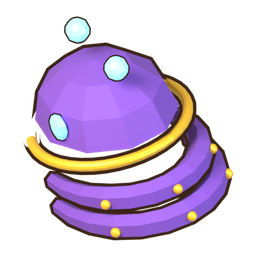
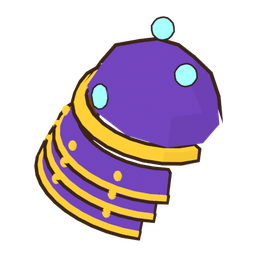
feat(gear): 무기 아이콘 전용 그림(굵게 · 45° · 단계 장식) · 견갑 아이콘 다시 — 칸을 채우고 견갑으로 읽히게
리소스 피드백 ④:
- 무기: 칸 · 가방 · 대장간 · 세트 줄 아이콘이 손에 드는 세로 그림(weapon-N 등)을 그대로 써서 칸의 15%만 채웠다.
  손에 드는 그림은 손잡이 점(WEAPON_GRIP)에 묶여 있어 그대로 두고, 아이콘 전용 titans/gear/icon/<kind>-<t>.png 를 새로 —
  굵기 1.6배 · 45° 대각선(손잡이 왼쪽 아래 → 끝 오른쪽 위) · 2단계 리본 · 3단계 금 날개(단계가 색만 바뀌던 것).
  weapons.weaponBadgePath — 아이콘 자리 7곳(장비창 칸 · 가방 · 성장 카드 · 세트 줄 · 대장간 탭 · 진열 · 목록)만 바꿈
- 견갑: 판을 관(tube) 고리로 만들고 위에서 내려다봐 '초록 마카롱 · 감긴 고리'로 읽혔다 →
  굽은 판(band) 셋을 겹쳐 내리고 판 끝 테 · 징 · 가죽 끈, 어깨에 얹힌 듯 25° 기울여 옆에서. 견갑 넷 + 세트 견갑 넷(같은 파일명)
- gear_icons.py -- icons | shoulders, assemble-gear 는 icon-* 를 icon/ 폴더로

검사: tsc · equip-window · gear-sets · tier-visuals · no-missing-art · upgrade-reflect · weapon-grip · weapons-play · upgrade-glow
(verify-gear-parts 의 대장간 '장비' 탭 2건은 이 변경 전 HEAD 에서도 같은 실패)

diff --git a/src/TitansGame.tsx b/src/TitansGame.tsx
@@ -95,7 +95,7 @@ import { canHoldRunes, engraveRune, gearRuneEffects, nextRuneSocketAt, rollRuneO
 import { partEquipTier, setEquipTier, shoulderEquipTier, weaponEquipTier } from "./equipment/equipTier";
 import { gearSetEnhanceCost, GEAR_ITEM_PRICE, GEAR_SET_KINDS, GEAR_SET_NAME, GEAR_SET_PRICE, GEAR_SET_SLOTS, gearFullSetText, gearItemEffectText, gearItemIconPath, gearItemId, gearItemKind, gearItemName, gearItemSlot, gearSetEffects, gearSetSummary, isGearItemId, type GearItemId, gearItemSetLabel, isLimitedGear } from "./equipment/gearSets";
 import { QuestPanel } from "./titans/QuestPanel";
-import { WEAPON_EFFECTS, WEAPON_FORGE_NAME, WEAPON_KINDS, WEAPON_LABEL, WEAPON_TECH, weaponForgeBonus, weaponHuntLevel, weaponIconPath, weaponStatText, type WeaponKind } from "./titans/weapons";
+import { WEAPON_EFFECTS, WEAPON_FORGE_NAME, WEAPON_KINDS, WEAPON_LABEL, WEAPON_TECH, weaponBadgePath, weaponForgeBonus, weaponHuntLevel, weaponStatText, type WeaponKind } from "./titans/weapons";
 import { SUMMON_LEVEL_PULLS, summonLevel, summonLevelProgress, TIERS, TIER_LABEL, TIER_RANK } from "./titans/summonLevel";
 import type { Tier as AllyRarity } from "./titans/allyRoster";
 import { RelicTabPanel } from "./titans/RelicTabPanel";
@@ -4828,7 +4828,7 @@ export function TitansGame({ insets, userHash, forgedWeaponLevel: drumLevel = 0,
           const lvOf = (k: WeaponKind) => weaponHuntLevel(k, drumLevel, character.expeditionWeaponForge ?? {});
           const wantedLv = lvOf(wantedWeaponKind);
           const slots: EquipSlotView[] = [
-            { id: "weapon", label: "무기", icon: assetUrl(weaponIconPath(wantedWeaponKind, wantedLv)), level: `+${wantedLv}`, tier: weaponEquipTier(wantedLv) },
+            { id: "weapon", label: "무기", icon: assetUrl(weaponBadgePath(wantedWeaponKind, wantedLv)), level: `+${wantedLv}`, tier: weaponEquipTier(wantedLv) },
             (() => {
               const set = character.equippedGear.shoulder;
               return set
@@ -4847,7 +4847,7 @@ export function TitansGame({ insets, userHash, forgedWeaponLevel: drumLevel = 0,
             })(),
           ];
           const bag: EquipBagItem[] = [
-            ...WEAPON_KINDS.map((k): EquipBagItem => ({ key: k, slot: "weapon", label: WEAPON_LABEL[k], level: `+${lvOf(k)}`, icon: assetUrl(weaponIconPath(k, lvOf(k))), on: wantedWeaponKind === k, pending: wantedWeaponKind === k && weaponKind !== k, title: `${weaponStatText(k)} · ${WEAPON_TECH[k].desc}`, className: "weapon-kind-chip", tier: weaponEquipTier(lvOf(k)) })),
+            ...WEAPON_KINDS.map((k): EquipBagItem => ({ key: k, slot: "weapon", label: WEAPON_LABEL[k], level: `+${lvOf(k)}`, icon: assetUrl(weaponBadgePath(k, lvOf(k))), on: wantedWeaponKind === k, pending: wantedWeaponKind === k && weaponKind !== k, title: `${weaponStatText(k)} · ${WEAPON_TECH[k].desc}`, className: "weapon-kind-chip", tier: weaponEquipTier(lvOf(k)) })),
             ...(character.ownedShoulders ?? []).map((id): EquipBagItem => ({ key: id, slot: "shoulder", label: SHOULDER_DEFINITIONS[id].name.replace(" 견갑", ""), icon: shoulderIconUrl(id), on: equippedShoulder === id && !character.equippedGear.shoulder, title: `${SHOULDER_DEFINITIONS[id].name} · ${SHOULDER_DEFINITIONS[id].effect}`, tier: shoulderEquipTier(SHOULDER_DEFINITIONS[id].grade) })),
             ...MOUNT_IDS.filter((mid) => (character.mounts[mid] ?? 0) > 0).map((mid): EquipBagItem => ({ key: `mount:${mid}`, slot: "mount", label: MOUNT_DEFS[mid].name.split(" ").pop() ?? MOUNT_DEFS[mid].name, level: `Lv.${character.mounts[mid]}`, icon: assetUrl(`titans/mounts/${mid}.webp`), on: character.activeMount === mid, title: `${MOUNT_DEFS[mid].name} · 사냥 골드 +${(mountGoldBonus(mid, character.mounts[mid] ?? 1) * 100).toFixed(1)}% · ${character.activeMount === mid ? "누르면 내림" : "끌어 놓거나 누르면 탄다"}`, tier: cosmeticTier(MOUNT_DEFS[mid].gemPrice) })),
             ...character.ownedGear.map((id): EquipBagItem => ({ key: id, slot: gearItemSlot(id), label: gearItemSetLabel(id), icon: assetUrl(gearItemIconPath(id)), on: character.equippedGear[gearItemSlot(id)] === id, title: `${gearItemName(id)} · ${gearItemEffectText(id, character.gearSetLevels[id] ?? 0)}`, tier: setEquipTier(character.gearSetLevels[id] ?? 0) })),
@@ -4984,7 +4984,7 @@ export function TitansGame({ insets, userHash, forgedWeaponLevel: drumLevel = 0,
         {tab === "sword" && (
           <>
             <article key={autoTrainHit?.slot === "weapon" ? `w${autoTrainHit.seq}` : "w"} data-tier={weaponEquipTier(forgedWeaponLevel)} className={`titans-card equipment-training-card ${equipFocus === "weapon" ? "" : "is-other-slot"} ${autoTrainHit?.slot === "weapon" ? "auto-hit" : ""}`}>
-              <div className="training-item-icon weapon"><img src={assetUrl(weaponIconPath(weaponKind, forgedWeaponLevel))} alt="" aria-hidden="true" /></div>
+              <div className="training-item-icon weapon"><img src={assetUrl(weaponBadgePath(weaponKind, forgedWeaponLevel))} alt="" aria-hidden="true" /></div>
               <div>
                 <strong>무기 숙련 · Lv.{save.equipmentTraining.weaponMastery}</strong><p>탭 피해 {formatGold(tapDamage(save.equipmentTraining.weaponMastery + forgeBonus))} → {formatGold(tapDamage(save.equipmentTraining.weaponMastery + 1 + forgeBonus))}</p>
               </div>
@@ -5719,7 +5719,7 @@ export function TitansGame({ insets, userHash, forgedWeaponLevel: drumLevel = 0,
               const setPrice = missing.length === ids.length ? GEAR_SET_PRICE : missing.length * GEAR_ITEM_PRICE;
               return [
                 <article key={kind} className="titans-card gear-set-card gear-list-row" data-gear-set={kind}>
-                  <img src={assetUrl(weaponIconPath(kind, 8))} alt="" aria-hidden="true" />
+                  <img src={assetUrl(weaponBadgePath(kind, 8))} alt="" aria-hidden="true" />
                   <div><strong>{GEAR_SET_NAME[kind]} 세트 <em>{WEAPON_LABEL[kind]} 전용</em></strong><p>{gearFullSetText(kind)}</p></div>
                   {missing.length > 0 ? (
                     <button type="button" className="gear-set-buy" disabled={redGems < setPrice} onClick={() => void buyGear(ids, setPrice, `${GEAR_SET_NAME[kind]} 세트`)}>

diff --git a/src/ForgeGame.tsx b/src/ForgeGame.tsx
@@ -1,6 +1,6 @@
 import { partEquipTier, weaponEquipTier } from "./equipment/equipTier";
 import { GEAR_ENHANCE_MAX, GEAR_PARTS, GEAR_PART_DEF, emptyGearLevels, gearEnhanceCost, gearTierOfEnhance, type GearLevels, type GearPart } from "./equipment/parts";
-import { WEAPON_FORGE_NAME, WEAPON_KINDS, WEAPON_LABEL, weaponIconPath, weaponStatText, type WeaponKind } from "./titans/weapons";
+import { WEAPON_FORGE_NAME, WEAPON_KINDS, WEAPON_LABEL, weaponBadgePath, weaponStatText, type WeaponKind } from "./titans/weapons";
 import { useEffect, useMemo, useRef, useState, type CSSProperties } from "react";
 import { assetUrl } from "./asset";
 import type { SafeInsets } from "./game/toss";
@@ -677,7 +677,7 @@ export function ForgeGame({ insets, userHash, onBack }: ForgeGameProps) {
             <div className="forge-weapon-kinds" role="group" aria-label="장착 무기">
               {WEAPON_KINDS.map((k) => (
                 <button key={k} type="button" data-tier={weaponEquipTier(k === "sword" ? save.level : Math.round((expForge[k] * 15) / 20))} className={equippedKind === k ? "on" : ""} aria-pressed={equippedKind === k} onClick={() => void equipKind(k)}>
-                  <img src={assetUrl(weaponIconPath(k, k === "sword" ? save.level : Math.round((expForge[k] * 15) / 20)))} alt="" aria-hidden="true" />
+                  <img src={assetUrl(weaponBadgePath(k, k === "sword" ? save.level : Math.round((expForge[k] * 15) / 20)))} alt="" aria-hidden="true" />
                   <b>{WEAPON_LABEL[k]}</b><small>+{k === "sword" ? save.level : expForge[k]}</small>
                 </button>
               ))}
@@ -837,7 +837,7 @@ export function ForgeGame({ insets, userHash, onBack }: ForgeGameProps) {
             </section>
           ) : effView === "weapons" ? (
             <section className="forge-expweapons">
-              <ForgeShowcase src={assetUrl(weaponIconPath(selWeapon, Math.round((expForge[selWeapon] * 15) / 20)))} level={expForge[selWeapon]} name={WEAPON_FORGE_NAME[selWeapon]} tier={(expForge[selWeapon] >= 14 ? 3 : expForge[selWeapon] >= 7 ? 2 : 1) as 1 | 2 | 3} flash={gearFlash} />
+              <ForgeShowcase src={assetUrl(weaponBadgePath(selWeapon, Math.round((expForge[selWeapon] * 15) / 20)))} level={expForge[selWeapon]} name={WEAPON_FORGE_NAME[selWeapon]} tier={(expForge[selWeapon] >= 14 ? 3 : expForge[selWeapon] >= 7 ? 2 : 1) as 1 | 2 | 3} flash={gearFlash} />
               <p className="forge-note">성문 방어의 무기 — 높은 단계는 실패 · 파괴(+0) 확률이 있어요(방지권 {save.tickets}장이 파괴를 막음). 활은 주인공의 기본 사격과 <b>물리</b> 스킬 무기를, 지팡이는 <b>마법</b> 스킬 무기를 세게 한다.</p>
               {(equippedKind === "sword" ? [] : [equippedKind]).map((kind) => {
                 const lv = expForge[kind];
@@ -848,7 +848,7 @@ export function ForgeGame({ insets, userHash, onBack }: ForgeGameProps) {
                 const weapons = EXPEDITION_SKILLS.filter((d) => d.family === family).map((d) => d.weapon);
                 return (
                   <article key={riskHit?.key === `weapon-${kind}` ? `${kind}-${riskHit.seq}` : kind} className={`forge-expweapon ${kind} ${selWeapon === kind ? "on" : ""} ${riskHit?.key === `weapon-${kind}` ? `risk-${riskHit.kind}` : ""}`} onClick={() => setSelWeapon(kind)}>
-                    <img src={assetUrl(weaponIconPath(kind, Math.round((lv * 15) / 20)))} alt="" aria-hidden="true" />
+                    <img src={assetUrl(weaponBadgePath(kind, Math.round((lv * 15) / 20)))} alt="" aria-hidden="true" />
                     <div>
                       <strong>{WEAPON_FORGE_NAME[kind]} +{lv}</strong>
                       <p>{kind === "bow" ? "기본 사격 · " : ""}{weapons.join(" · ")}</p>

diff --git a/src/titans/weapons.ts b/src/titans/weapons.ts
@@ -81,7 +81,14 @@ export function weaponForgeBonus(kind: WeaponKind, swordLevel: number, forge: Pa
 export function weaponTier(level15: number): 1 | 2 | 3 {
   return level15 >= 10 ? 3 : level15 >= 5 ? 2 : 1;
 }
-/** 장비 그림 — 검은 weapon-N(기존 검 아이콘), 나머지는 <kind>-N */
+/** 장비 그림 — 검은 weapon-N(기존 검 아이콘), 나머지는 <kind>-N. **손에 드는 그림**(EquippedCharacter · 손잡이 점 WEAPON_GRIP)이라 세로로 곧다 */
 export function weaponIconPath(kind: WeaponKind, level15: number): string {
   return `titans/gear/${kind === "sword" ? "weapon" : kind}-${weaponTier(level15)}.png`;
+}
+/**
+ * 무기 아이콘(칸 · 가방 · 대장간 · 세트 줄) — 2026-11-19 리소스 피드백 ④: 손에 드는 그림을 칸에 그대로 넣으면 가는 세로 막대라 칸의 15%만 채웠다.
+ * 굵게(1.6배) · 45° 대각선 · 2단계 리본 · 3단계 금 날개(art-gen/blender/gear_icons.py icon-* → scripts/assemble-gear.mjs). 손에 드는 그림은 weaponIconPath 그대로
+ */
+export function weaponBadgePath(kind: WeaponKind, level15: number): string {
+  return `titans/gear/icon/${kind}-${weaponTier(level15)}.png`;
 }

diff --git a/art-gen/blender/gear_icons.py b/art-gen/blender/gear_icons.py
@@ -3,6 +3,7 @@
   blender -b -P art-gen/blender/gear_icons.py -- [gear|drums|<이름>…]   → art-gen/out/b3d-gear/<이름>.png (512² 투명)
 조립: node scripts/assemble-gear.mjs (public/titans/gear/<이름>.png · public/forge/swords/sNN.png 같은 파일명)"""
 import bpy
+import bmesh
 import sys
 import os
 import math
@@ -19,6 +20,7 @@ PIXEL = os.environ.get('ART_STYLE', '') == 'pixel'
 ICON_RES = int(os.environ.get('PIXEL_ICON_RES', '48')) if PIXEL else 512
 OUTDIR = os.path.join(ROOT, 'art-gen', 'out', 'b3d-gear-px' if PIXEL else 'b3d-gear')
 O = 0.022
+F = 1.0   # 무기 굵기 배율 — 아이콘 전용(icon-*)은 1.6(리소스 피드백 ④: 가는 세로 막대라 칸의 15%만 채웠다). 손에 드는 그림은 1.0 그대로
 
 # 단계 색 — 1 나무 · 쇠, 2 푸른 강철 · 금, 3 진홍 · 황금 · 보석
 TIER = {
@@ -50,14 +52,14 @@ def gem(name, c, at, r=0.07):
 # ── 파츠 ──
 def sword(t):
     T = TIER[t]
-    blade = C.box(Vector((0, 0, 0.32)), (0.17, 0.05, 0.95), bevel=0.0)
+    blade = C.box(Vector((0, 0, 0.32)), (0.17 * F, 0.05 * F, 0.95), bevel=0.0)
     for v in blade.verts:   # 끝을 뾰족하게
         if v.co.z > 0.62:
             v.co.x *= max(0.05, (0.8 - v.co.z) / 0.18)
     ob('blade', blade, metal_m(T['metal'] if t > 1 else '#c8d2dc'))
-    ob('guard', C.box(Vector((0, 0, -0.18)), (0.52, 0.11, 0.09)), metal_m(T['trim']))
-    ob('grip', C.tube([Vector((0, 0, -0.2)), Vector((0, 0, -0.5))], 0.055, seg=8), m('grip', T['main']))
-    ob('pommel', C.ellipsoid(Vector((0, 0, -0.55)), (0.08, 0.08, 0.08)), metal_m(T['trim']))
+    ob('guard', C.box(Vector((0, 0, -0.18)), (0.52 * (0.5 + F / 2), 0.11 * F, 0.09 * F)), metal_m(T['trim']))
+    ob('grip', C.tube([Vector((0, 0, -0.2)), Vector((0, 0, -0.5))], 0.055 * F, seg=8), m('grip', T['main']))
+    ob('pommel', C.ellipsoid(Vector((0, 0, -0.55)), (0.08 * F, 0.08 * F, 0.08 * F)), metal_m(T['trim']))
     if T['gem']:
         gem('g', T['gem'], Vector((0, -0.06, -0.18)), 0.06)
 
@@ -65,25 +67,26 @@ def sword(t):
 def bow(t):
     T = TIER[t]
     pts = [Vector((0.42 * math.cos(a) - 0.3, 0, 0.78 * math.sin(a))) for a in [(-1.2 + 2.4 * k / 16) for k in range(17)]]
-    ob('bow', C.tube(pts, interp([0.035, 0.06, 0.07, 0.06, 0.035], len(pts)), seg=8), m('bow', T['main'] if t > 1 else '#b9783a'))
-    ob('string', C.tube([pts[0], pts[-1]], 0.012, seg=5), m('str', '#fffaf0'), 0)
-    ob('wrap', C.tube([pts[8] + Vector((0, 0, -0.1)), pts[8] + Vector((0, 0, 0.1))], 0.085, seg=8), m('wrap', T['trim']))
+    ob('bow', C.tube(pts, interp([r * F for r in (0.035, 0.06, 0.07, 0.06, 0.035)], len(pts)), seg=8), m('bow', T['main'] if t > 1 else '#b9783a'))
+    ob('string', C.tube([pts[0], pts[-1]], 0.012 * (0.5 + F / 2), seg=5), m('str', '#fffaf0'), 0)
+    ob('wrap', C.tube([pts[8] + Vector((0, 0, -0.1)), pts[8] + Vector((0, 0, 0.1))], 0.085 * F, seg=8), m('wrap', T['trim']))
     for p in (pts[0], pts[-1]):
-        ob('tip', C.ellipsoid(p, (0.06, 0.06, 0.06)), metal_m(T['trim']))
+        ob('tip', C.ellipsoid(p, (0.06 * F, 0.06 * F, 0.06 * F)), metal_m(T['trim']))
     if T['gem']:
         gem('g', T['gem'], pts[8] + Vector((0.03, -0.09, 0)))
 
 
 def staff(t):
     T = TIER[t]
-    ob('shaft', C.tube([Vector((0, 0, -0.8)), Vector((0, 0, 0.45))], 0.05, seg=8), m('shaft', '#8a5a2b' if t == 1 else T['main']))
+    ob('shaft', C.tube([Vector((0, 0, -0.8)), Vector((0, 0, 0.45))], 0.05 * F, seg=8), m('shaft', '#8a5a2b' if t == 1 else T['main']))
     orb = T['gem'] or '#9ad04a'
-    ob('orb', C.ellipsoid(Vector((0, 0, 0.66)), (0.2, 0.2, 0.2)), m('orb', orb, rough=0.3, emit=orb, es=0.9))
+    ro = 0.2 * (0.6 + 0.4 * F)
+    ob('orb', C.ellipsoid(Vector((0, 0, 0.66)), (ro, ro, ro)), m('orb', orb, rough=0.3, emit=orb, es=0.9))
     for k in range(4 if t > 1 else 3):
         a = 2 * math.pi * k / (4 if t > 1 else 3)
         pts = spline([Vector((0, 0, 0.42)), Vector((0.2 * math.cos(a), 0.2 * math.sin(a), 0.6)), Vector((0.1 * math.cos(a), 0.1 * math.sin(a), 0.86))], 8)
-        ob(f'prong{k}', C.tube(pts, interp([0.04, 0.035, 0.015], len(pts)), seg=6), metal_m(T['trim']))
-    ob('cuff', C.tube([Vector((0, 0, 0.36)), Vector((0, 0, 0.45))], 0.075, seg=8), metal_m(T['trim']))
+        ob(f'prong{k}', C.tube(pts, interp([r * F for r in (0.04, 0.035, 0.015)], len(pts)), seg=6), metal_m(T['trim']))
+    ob('cuff', C.tube([Vector((0, 0, 0.36)), Vector((0, 0, 0.45))], 0.075 * F, seg=8), metal_m(T['trim']))
 
 
 def shield(t):
@@ -175,30 +178,89 @@ SHOULDERS = {   # 견갑 넷 — 색 · 장식
 }
 
 
+def band(R0, R1, z0, z1, p0, p1, n=14, th=0.035):
+    """바깥(−Y)을 감싼 굽은 판 — 위 반지름 R0 · 아래 R1, 각 p0~p1(라디안, 0 = −Y 정면). 관(tube)이 아니라 판이라 고리로 안 읽힌다"""
+    bm = bmesh.new()
+    rows = []
+    for R, z in ((R0, z0), (R1, z1)):
+        for inner in (0, 1):
+            r = R - th * inner
+            rows.append([bm.verts.new((r * math.sin(p0 + (p1 - p0) * j / n), -r * math.cos(p0 + (p1 - p0) * j / n), z)) for j in range(n + 1)])
+    to, ti, bo, bi = rows
+    for j in range(n):
+        bm.faces.new((to[j], to[j + 1], bo[j + 1], bo[j]))
+        bm.faces.new((ti[j + 1], ti[j], bi[j], bi[j + 1]))
+        bm.faces.new((ti[j], ti[j + 1], to[j + 1], to[j]))
+        bm.faces.new((bo[j], bo[j + 1], bi[j + 1], bi[j]))
+    bm.faces.new((to[0], bo[0], bi[0], ti[0]))
+    bm.faces.new((ti[n], bi[n], bo[n], to[n]))
+    bmesh.ops.recalc_face_normals(bm, faces=bm.faces)
+    return bm
+
+
 def shoulder(kind):
-    """견갑 — 어깨를 덮는 둥근 덮개 하나 + 바깥쪽으로만 늘어진 판 두 장(띠 조각) · 징 · 가시 · 보석.
-    1 · 2판(통째 고리를 겹침)은 햄버거 · 토성 고리처럼 읽혔다 — 판은 바깥 반쪽만 남긴다"""
+    """견갑 3판 (2026-11-19, 리소스 피드백 ④) — 옆에서 본 어깨판: 둥근 돔 + 아래로 겹쳐 내려오는 굽은 판 셋 · 판 끝 테 · 징 · 가죽 끈.
+    1 · 2판은 판을 관(tube) 고리로 만들고 위에서 내려다봐 장비창에서 '초록 마카롱 · 감긴 고리'로 읽혔다"""
     S = SHOULDERS[kind]
-    cap = C.ellipsoid(Vector((0, 0, 0.22)), (0.55, 0.46, 0.42))
-    for v in [v for v in cap.verts if v.co.z < 0.12]:
+    cap = C.ellipsoid(Vector((0, 0, 0.2)), (0.56, 0.5, 0.46))
+    for v in [v for v in cap.verts if v.co.z < 0.1]:
         cap.verts.remove(v)
     ob('cap', cap, m('pl0', S['main']))
-    for k in (1, 2):   # 늘어진 판 — 바깥 반쪽 호를 따라 굵은 띠(로우 폴리 타원체를 얇게 자르면 면이 남지 않았다)
-        zc = 0.1 - 0.17 * k
-        R = (0.58 + 0.05 * k, 0.47 + 0.03 * k)
-        arc = [Vector((0.06 * k + R[0] * math.cos(a), R[1] * math.sin(a), zc)) for a in [(-1.7 + 3.4 * j / 12) for j in range(13)]]
-        ob(f'lame{k}', C.tube(arc, interp([0.05, 0.085, 0.09, 0.085, 0.05], len(arc)), seg=6), m('pl', S['main']))
-        for j in (3, 6, 9):
-            ob(f'rivet{k}{j}', C.ellipsoid(arc[j] + Vector((0, 0, 0.0)) + (arc[j] - Vector((0.06 * k, 0, zc))).normalized() * 0.08, (0.035, 0.035, 0.035)), metal_m(S['trim']), 0)
-    rim = C.torus(Vector((0, 0, 0.14)), 0.53, 0.035)
-    for v in [v for v in rim.verts if v.co.x < -0.3]:
-        rim.verts.remove(v)
-    ob('rim', rim, metal_m(S['trim']))
+    ob('caprim', band(0.575, 0.59, 0.17, 0.09, -1.75, 1.75, th=0.05), metal_m(S['trim']))
+    for k in (1, 2, 3):
+        zt = 0.13 - 0.15 * k
+        zb = zt - 0.2
+        R0 = 0.55 + 0.035 * k
+        R1 = R0 + 0.07
+        p = 1.5 - 0.12 * k
+        ob(f'lame{k}', band(R0, R1, zt, zb, -p, p), m('pl', S['main']))
+        ob(f'edge{k}', band(R1 + 0.004, R1 + 0.012, zb + 0.04, zb, -p, p, th=0.05), metal_m(S['trim']))
+        for j, a in enumerate((-0.75, 0.0, 0.75)):
+            rr = (R0 + R1) / 2 + 0.01
+            ob(f'rivet{k}{j}', C.ellipsoid(Vector((rr * math.sin(a), -rr * math.cos(a), (zt + zb) / 2 + 0.02)), (0.04, 0.03, 0.04)), metal_m(S['trim']), 0)
+    # 가죽 끈 · 버클(안쪽 왼편)
+    ob('strap', C.box(Vector((-0.5, -0.18, -0.28)), (0.08, 0.05, 0.5)), m('strap', '#6b3f1f'))
+    ob('buckle', C.box(Vector((-0.5, -0.22, -0.36)), (0.13, 0.04, 0.1)), metal_m(S['trim']), O * 0.6)
     for k in range(S['spikes']):
         a = -0.6 + 1.2 * k / max(1, S['spikes'] - 1)
-        ob(f'spike{k}', C.cone(Vector((0.3 * math.sin(a) + 0.1, 0.0, 0.58)), 0.08, 0.0, 0.3, seg=6, rot=Euler((0, a * 0.7 + 0.3, 0))), m('horn', '#f1e4c8'))
+        ob(f'spike{k}', C.cone(Vector((0.42 * math.sin(a), -0.1, 0.56)), 0.09, 0.0, 0.32, seg=6, rot=Euler((0, a * 0.8, 0))), m('horn', '#f1e4c8'))
     if S['gem']:
-        gem('g', S['gem'], Vector((0.1, -0.42, 0.36)), 0.08)
+        gem('g', S['gem'], Vector((0, -0.5, 0.34)), 0.08)
+
+
+# ── 무기 아이콘 전용 (2026-11-19, 리소스 피드백 ④) — 굵게(F 1.6) · 45° 대각선(손잡이 왼쪽 아래 → 끝 오른쪽 위) · 단계 장식
+#    2단계 리본 · 3단계 금 날개. 손에 드는 그림(weapon-N 등, 손잡이 점 WEAPON_GRIP)은 그대로 두고 titans/gear/icon/<kind>-<t>.png 로 따로
+ICON_GRIP = {'sword': (0, 0, -0.38), 'spear': (0, 0, -0.1), 'staff': (0, 0, -0.15), 'bow': (0.14, 0, 0)}
+ICON_WING = {'sword': (0, 0, -0.18), 'spear': (0, 0, 0.5), 'staff': (0, 0, 0.4)}
+
+
+def wings(at, s=1.0):
+    for side in (-1, 1):
+        for j in range(3):
+            c = Vector(at) + Vector((side * (0.2 + 0.11 * j) * s, -0.04, (0.07 + 0.06 * j) * s))
+            rot = Euler((0, side * (-0.55 - 0.18 * j), 0))
+            ob(f'wing{side}{j}', C.ellipsoid(c, ((0.17 - 0.03 * j) * s, 0.03, 0.065 * s), rot=rot), m('wing', '#fff3c4' if j else '#f2c232'), O * 0.7)
+
+
+def icon_weapon(arg):
+    global F
+    kind, t = arg
+    F = 1.6
+    try:
+        {'sword': sword, 'spear': spear, 'staff': staff, 'bow': bow}[kind](t)
+    finally:
+        F = 1.0
+    T = TIER[t]
+    g = Vector(ICON_GRIP[kind])
+    if t >= 2:   # 리본 — 손잡이에서 늘어진 천
+        pts = spline([g, g + Vector((-0.12, -0.03, -0.14)), g + Vector((-0.06, -0.03, -0.36))], 8)
+        ob('ribbon', C.tube(pts, interp([0.05, 0.06, 0.025], len(pts)), seg=6), m('ribbon', T['cloth']))
+    if t == 3:
+        if kind == 'bow':
+            for z in (-0.62, 0.62):
+                wings((0.0, 0, z), 0.75)
+        else:
+            wings(ICON_WING[kind])
 
 
 # ── 북 16단계 (대장간 강화 단계 0~15) ──
@@ -244,18 +306,18 @@ def drum(level):
 # ── 무기 4종 (2026-10-27, 사용자: "비버의 무기가 북이라 너무 어색해 … 검 · 창 · 활 · 지팡이") ──
 def spear(t):
     T = TIER[t]
-    ob('shaft', C.tube([Vector((0, 0, -0.85)), Vector((0, 0, 0.5))], 0.04, seg=8), m('shaft', '#8a5a2b' if t == 1 else T['main']))
-    head = C.cone(Vector((0, 0, 0.72)), 0.13, 0.0, 0.42, seg=4)
+    ob('shaft', C.tube([Vector((0, 0, -0.85)), Vector((0, 0, 0.5))], 0.04 * F, seg=8), m('shaft', '#8a5a2b' if t == 1 else T['main']))
+    head = C.cone(Vector((0, 0, 0.72)), 0.13 * (0.5 + F / 2), 0.0, 0.42, seg=4)
     ob('head', head, metal_m(T['metal'] if t > 1 else '#c8d2dc'))
-    ob('collar', C.tube([Vector((0, 0, 0.46)), Vector((0, 0, 0.54))], 0.075, seg=8), metal_m(T['trim']))
+    ob('collar', C.tube([Vector((0, 0, 0.46)), Vector((0, 0, 0.54))], 0.075 * F, seg=8), metal_m(T['trim']))
     for k, z in enumerate((-0.15, 0.05)):
-        ob(f'wrap{k}', C.tube([Vector((0, 0, z)), Vector((0, 0, z + 0.08))], 0.052, seg=8), m('wrap', T['cloth']), O * 0.6)
+        ob(f'wrap{k}', C.tube([Vector((0, 0, z)), Vector((0, 0, z + 0.08))], 0.052 * F, seg=8), m('wrap', T['cloth']), O * 0.6)
     if t >= 2:   # 술 장식
         pts = spline([Vector((0, 0, 0.5)), Vector((0.12, -0.02, 0.36)), Vector((0.16, -0.02, 0.18))], 8)
-        ob('tassel', C.tube(pts, interp([0.05, 0.04, 0.012], len(pts)), seg=6), m('tassel', '#e8452c' if t == 2 else '#ffd34d'))
+        ob('tassel', C.tube(pts, interp([r * F for r in (0.05, 0.04, 0.012)], len(pts)), seg=6), m('tassel', '#e8452c' if t == 2 else '#ffd34d'))
     if T['gem']:
         gem('g', T['gem'], Vector((0, -0.05, 0.5)), 0.05)
-    ob('butt', C.cone(Vector((0, 0, -0.92)), 0.05, 0.0, 0.12, seg=6, rot=Euler((math.radians(180), 0, 0))), metal_m(T['trim']))
+    ob('butt', C.cone(Vector((0, 0, -0.92)), 0.05 * F, 0.0, 0.12, seg=6, rot=Euler((math.radians(180), 0, 0))), metal_m(T['trim']))
 
 
 def sword_lv(level):
@@ -515,7 +577,7 @@ def set_shoulder(k):
 
 
 # 3/4 로 보일 파츠 — (옆으로 도는 각, 앞으로 숙이는 각)
-TURN = {'helmet': (-32, 8), 'armor': (-26, 4), 'gloves': (-30, 6), 'boots': (-62, 4), 'shoulder': (-58, 14)}
+TURN = {'helmet': (-32, 8), 'armor': (-26, 4), 'gloves': (-30, 6), 'boots': (-62, 4), 'shoulder': (-60, 0, 25)}   # 견갑은 어깨에 얹힌 듯 25° 기울여 옆에서(위에서 내려다보면 고리, 정면이면 쌓은 투구로 읽혔다)
 
 JOBS = {}
 for t in (1, 2, 3):
@@ -529,7 +591,7 @@ for t in (1, 2, 3):
     JOBS[f'gloves-{t}'] = (gloves, t, (-22, 20), 1.6)
     JOBS[f'boots-{t}'] = (boots, t, (-30, 18), 1.6)
 for k in SHOULDERS:
-    JOBS[f'shoulder-{k}'] = (shoulder, k, (-35, 24), 1.9)
+    JOBS[f'shoulder-{k}'] = (shoulder, k, (0, 12), 1.9)
 for k in SETS:
     if k in LIMITED_SETS:
         JOBS[f'set-{k}-{LIMITED_SETS[k]}'] = (set_gloves, k, (-22, 20), 1.75)
@@ -538,7 +600,10 @@ for k in SETS:
     JOBS[f'set-{k}-armor'] = (set_armor, k, (-28, 14), 1.8)
     JOBS[f'set-{k}-gloves'] = (set_gloves, k, (-22, 20), 1.75)
     JOBS[f'set-{k}-boots'] = (set_boots, k, (-30, 18), 1.75)
-    JOBS[f'set-{k}-shoulder'] = (set_shoulder, k, (-35, 24), 2.0)
+    JOBS[f'set-{k}-shoulder'] = (set_shoulder, k, (0, 12), 2.0)
+for kd in ('sword', 'spear', 'bow', 'staff'):
+    for t in (1, 2, 3):
+        JOBS[f'icon-{kd}-{t}'] = (icon_weapon, (kd, t), (0, 8), 2.6)
 for lv in range(16):
     JOBS[f'drum-{lv:02d}'] = (drum, lv, (-24, 22), 2.3)
     JOBS[f'sword-{lv:02d}'] = (sword_lv, lv, (25, 15), 2.0)
@@ -547,9 +612,13 @@ argv = sys.argv[sys.argv.index('--') + 1:] if '--' in sys.argv else ['gear', 'dr
 names = []
 for a in argv:
     if a == 'gear':
-        names += [k for k in JOBS if not k.startswith('drum-') and not k.startswith('sword-') and not k.startswith('set-')]
+        names += [k for k in JOBS if not k.startswith('drum-') and not k.startswith('sword-') and not k.startswith('set-') and not k.startswith('icon-')]
     elif a == 'drums':
         names += [k for k in JOBS if k.startswith('drum-')]
+    elif a == 'icons':
+        names += [k for k in JOBS if k.startswith('icon-')]
+    elif a == 'shoulders':
+        names += [k for k in JOBS if k.startswith('shoulder-') or k.endswith('-shoulder')]
     elif a == 'swords':
         names += [k for k in JOBS if k.startswith('sword-')]
     else:
@@ -571,12 +640,20 @@ for name in names:
     finally:
         C.FACET = 0
     turn = TURN.get(name.split('-')[-1] if name.startswith('set-') else name.split('-')[0], 0)
-    if turn:
+    if name.startswith('icon-'):
         piv = bpy.data.objects.new('pivot', None)
         bpy.context.scene.collection.objects.link(piv)
         for o in [o for o in bpy.context.scene.objects if o.type == 'MESH' and o.parent is None]:
             o.parent = piv
-        piv.rotation_euler = Euler((math.radians(turn[1]), 0, math.radians(turn[0])))
+        piv.rotation_euler = Euler((0, math.radians(45), 0))   # 끝이 오른쪽 위
+        bpy.context.view_layer.update()
+    elif turn:
+        piv = bpy.data.objects.new('pivot', None)
+        bpy.context.scene.collection.objects.link(piv)
+        for o in [o for o in bpy.context.scene.objects if o.type == 'MESH' and o.parent is None]:
+            o.parent = piv
+        rx, ry, rz = turn[1], (turn[2] if len(turn) > 2 else 0), turn[0]   # (옆으로 도는 각, 앞으로 숙이는 각[, 기울기])
+        piv.rotation_euler = Euler((math.radians(rx), math.radians(ry), math.radians(rz)))
         bpy.context.view_layer.update()
     if TOON.enabled():   # 셀 그림결(ART_STYLE=toon, 2026-11-17) — 사냥터에서 주인공 손에 드는 무기 그림도 같은 결로
         TOON.apply(bpy.context.scene)
